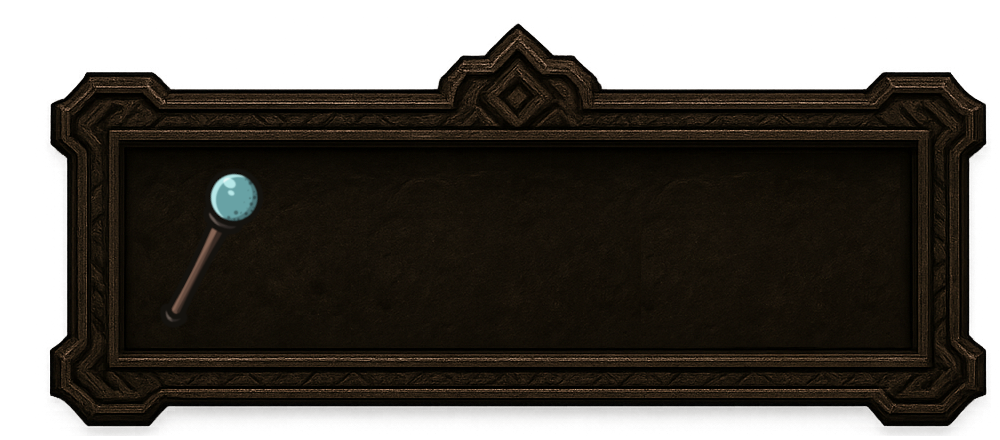
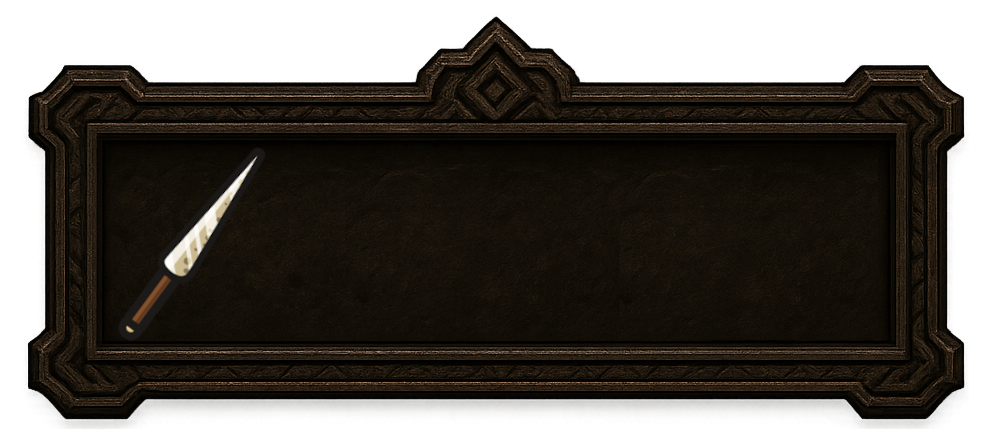
remnove unused images

Changed region(s): [[0.031, 0.0295, 0.992, 1.0], [0.248, 0.3545, 0.279, 0.3841]]

diff --git a/models/world.class.js b/models/world.class.js
@@ -9,8 +9,8 @@ class World {
   ctx;
   key;
   cameraPosition = 0;
-  valkyrieDamageAmount = 15;
-  itemDamageAmount = 50;
+  valkyrieDamageAmount = 12;
+  itemDamageAmount = 10;
   valkyrieStatusBar = new ValkyrieStatusBar();
   minotaurStatusBar = new MinotaurStatusBar();
   itemStatusBar = new ItemStatusBar();
@@ -125,10 +125,13 @@ class World {
       setInterval(() => {
         if (this.character.isDead || this.character.live <= 0) return;
         this.level.enemies.forEach((enemy) => {
-          if (this.shouldTakeDamage(enemy)) {
+          if (this.character.isColliding(enemy) && !this.character.isHurt) {
             this.applyDamage();
           }
         });
+        if (this.character.isColliding(this.minotaur) && !this.character.isHurt && !this.minotaur.isDead) {
+          this.applyDamage();
+        }
       }, 200)
     );
   }

diff --git a/models/minotaur.class.js b/models/minotaur.class.js
@@ -130,11 +130,11 @@ class Minotaur extends MovableObject {
    */
   movement() {
     if (this.movingRight) {
-      this.x_position += 4;
+      this.x_position += 33;
       if (this.x_position >= 1590) this.movingRight = false;
     } else {
-      this.x_position -= 4;
-      if (this.x_position <= 1450) this.movingRight = true;
+      this.x_position -= 22;
+      if (this.x_position <= 1050) this.movingRight = true;
     }
   }
 

diff --git a/models/throwable-object.class.js b/models/throwable-object.class.js
@@ -13,7 +13,7 @@ class ThrowableObject extends MovableObject {
    */
   constructor(x, y) {
     super();
-    this.loadImage("./assets/image/items/item/item.png");
+    this.loadImage("./assets/image/Valkyrie_3/PNG/Vector Parts/Sword.png");
     this.x_position = x;
     this.y_position = y;
     this.width = 50;

diff --git a/models/item.class.js b/models/item.class.js
@@ -7,7 +7,7 @@ class Item extends DrawableObject {
    * Array of image paths representing the item.
    * @type {string[]}
    */
-  item = ["./assets/image/items/item/item.png"];
+  item = ["./assets/image/Valkyrie_3/PNG/Vector Parts/Sword.png"];
 
   /**
    * The vertical position of the item on the screen.

diff --git a/index.html b/index.html
@@ -90,3 +90,4 @@
     </footer>
   </body>
 </html>
+<!-- <img src="./assets/image/Valkyrie_3/PNG/Vector Parts/Sword.png" alt="" /> -->
